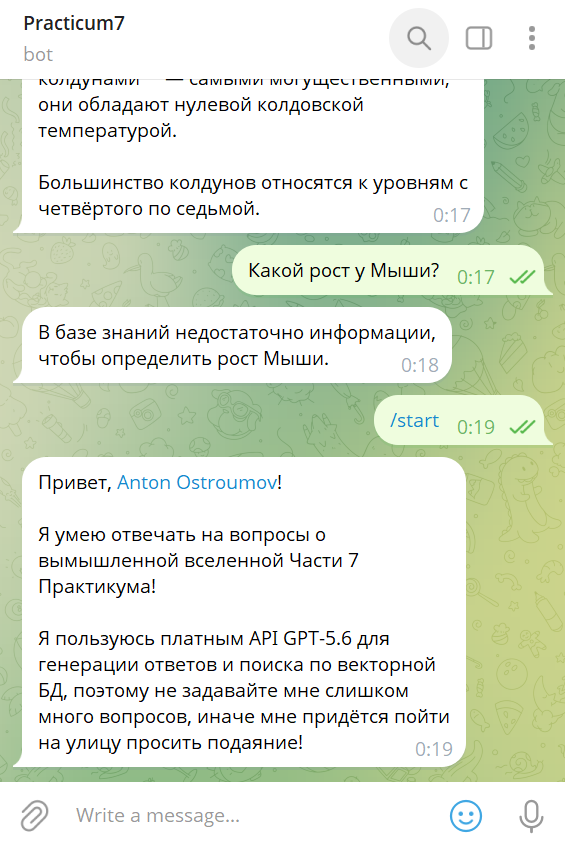
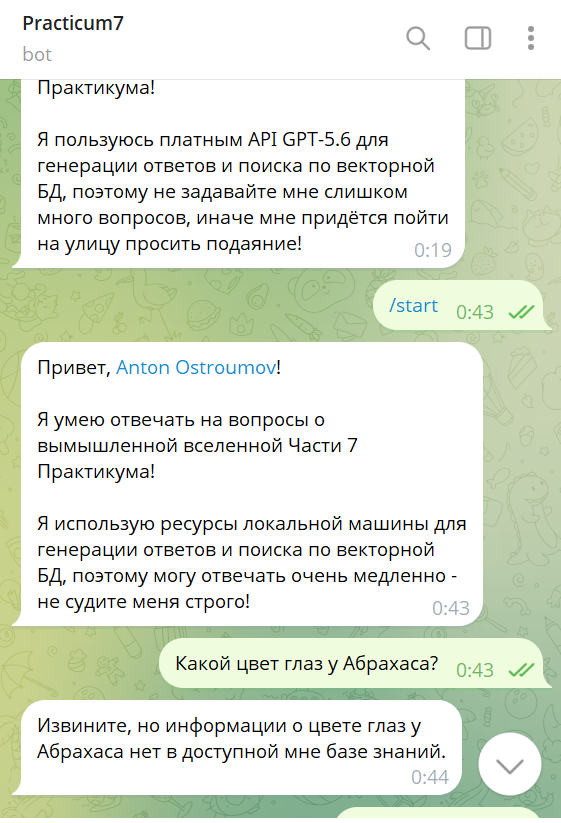
Fix mistakes.

diff --git a/Task4/README.md b/Task4/README.md
@@ -9,7 +9,7 @@
 
 ### Запуск
 
-Предполагается, что Qdrant запущен и наполнен, если это не так - см. Задание 2.
+Предполагается, что Qdrant запущен и наполнен, если это не так - см. Задание 3.
 
 Для работы локальной модели нужно запустить сервер llama.cpp, который предоставляет API OpenAI:
 
